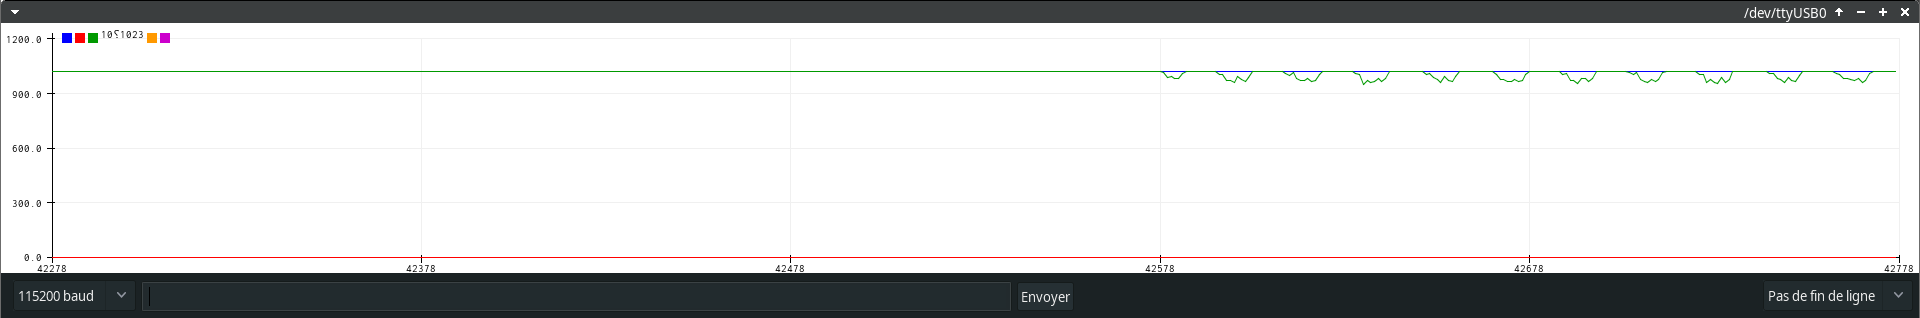
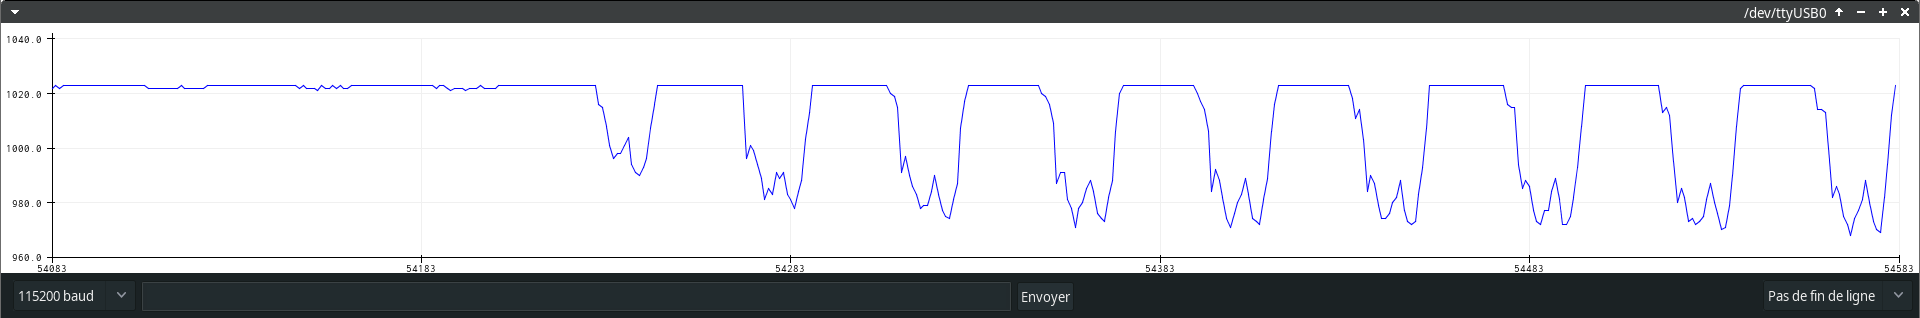
rebuilding site dim. 21 févr. 2021 18:09:02 CET

diff --git a/post/plant_touch_sensor/index.html b/post/plant_touch_sensor/index.html
@@ -59,7 +59,7 @@
   "headline": "Plante tactile",
   "description" : "Un petit projet d\u0026rsquo;une après-midi pour implémenter une interface tactile a l\u0026rsquo;aide d\u0026rsquo;un microcontrôleur.\n",
   "inLanguage" : "fr",
-  "wordCount":  941 ,
+  "wordCount":  1118 ,
   "datePublished" : "2019-12-13T00:00:00",
   "dateModified" : "2019-12-13T00:00:00",
   "image" : "https:\/\/BaptisteHudyma.github.io\/img\/github_profile.jpg",
@@ -463,7 +463,7 @@ if (!doNotTrack) {
   
   
   
-    &nbsp;|&nbsp;<i class="fas fa-book"></i>&nbsp;941&nbsp;mots
+    &nbsp;|&nbsp;<i class="fas fa-book"></i>&nbsp;1118&nbsp;mots
   
   
   
@@ -490,7 +490,7 @@ if (!doNotTrack) {
         <p>Un petit projet d&rsquo;une après-midi pour implémenter une interface tactile a l&rsquo;aide d&rsquo;un microcontrôleur.</p>
 <p>Un peu de contexte : Nous sommes en 2019, je suis en 5e année d&rsquo;école d&rsquo;ingénieur, en cours d&rsquo;IoT (Internet of Things, objet connectés).
 Par groupe de 5, nous devons réaliser un projet sur 4 jours, sur le thème &ldquo;un objet connecté inutile mais désirable&rdquo; (un sujet de société finalement).
-Notre équipe décide de s&rsquo;orienter vers une plante connectée appelée <em>Super Spinach 2000</em>, mais pour moi, il manque quelque chose pour que l&rsquo;ensemble soit plus désirable.</p>
+Notre équipe décide de s&rsquo;orienter vers une plante connectée appelée <em>Super Spinach 3000</em>, mais pour moi, il manque quelque chose pour que l&rsquo;ensemble soit plus désirable.</p>
 <p>Je me rappelle alors du projet <a href="https://www.youtube.com/watch?v=EcRSKEIucjk">&ldquo;Botanicus interacticus&rdquo; de Disney Research Hub</a>, permettant de brancher une interface sur une plante pour visualiser les interactions tactiles avec un utilisateur.
 Une plante connectée c&rsquo;est bien, mais une plante connectée qui peut exprimer sa joie d&rsquo;être caressée ou permet d&rsquo;allumer la lumière/musique, c&rsquo;est bien mieux !</p>
 <p>L&rsquo;équipe, convaincue par mon idée, m&rsquo;a confié la réalisation de cette partie (oups !).</p>
@@ -509,6 +509,7 @@ Une plante connectée c&rsquo;est bien, mais une plante connectée qui peut expr
 <p>J&rsquo;ai simplement mis un fil de la pin A0, et j&rsquo;observe les données pendant quelques temps avant de poser mon doigt dessus.
 Voilà un exemple des données bruts, au moment où je touche le fil :
 <img src="/static/plant_touch/contact_fil.png" alt=""></p>
+<p>Le signal ressemble a une sinusoïdal oscillant autour de 512 (1024/2) a vide, saturée entre 0 et 1023 quand un contact est établi.</p>
 <details><summary>Qu&rsquo;est-ce que c&rsquo;est que cette sinusoïdal ? (cliquer pour étendre)</summary>
 <p>Le convertisseur analogique vers digital (ADC) de l&rsquo;Arduino utilise 10 bits, ce qui nous donne des valeurs de 0 a 1023.</p>
 <p>Ici, observe un bruit sinusoïdal, assez faible avant que j&rsquo;établisse le contact, puis fortement amplifié.
@@ -524,7 +525,8 @@ Cela indique qu&rsquo;il s&rsquo;agit d&rsquo;un bruit extérieur au système, c
 <h2 id="pull-up-2-m-ohms">Pull up 2 M Ohms</h2>
 <p>En ajoutant une résistance de 2 Mega Ohms entre notre pin et l&rsquo;alimentation Vcc (ici, 5 Volts), on &ldquo;force&rdquo; la lecture et la reinitialisation de la pin.</p>
 <p><img src="/static/plant_touch/contact_fil_pullup.png" alt=""></p>
-<p>Cette fois on peut simplement ajouter une condition pour allumer la led si on passe en dessous de la valeur 1000 :</p>
+<p>La valeur de base est cette fois très proche de 1023, et descend vers 980 quand un contact est établit.
+Cette fois on peut simplement ajouter une condition pour allumer la led si on passe en dessous de la valeur 1000 :</p>
 <div class="highlight"><pre class="chroma"><code class="language-Cpp" data-lang="Cpp"><span class="c1">//allumer la led si on passe sous le seuil, sinon eteindre
 </span><span class="c1"></span><span class="n">digitalWrite</span><span class="p">(</span><span class="n">LED_BUILTIN</span><span class="p">,</span> <span class="n">sensorValue</span> <span class="o">&lt;</span> <span class="mi">1000</span><span class="p">);</span>
 </code></pre></div><p><img src="/static/plant_touch/touch_pullup.gif" alt="">
@@ -538,7 +540,7 @@ Cette implémentation repose uniquement sur la résistance du corps humain, une 
 Ce composant présente une certaine capacité à retenir et libérer des charges, et on va utiliser cette propriété pour détecter un contact avec notre plante.</p>
 <p>On cherche ici à charger le condensateur, puis détecter le temps qu&rsquo;il prend à se décharger complètement (via la valeur <code>cycles</code>).
 Cette valeur est comparée a une baseline <code>cycleThreshold</code> qui représente notre capacitance de base de l&rsquo;environnement, étalonnée quand le système est à vide, ou réglée via un potentiomètre.</p>
-<div class="highlight"><pre class="chroma"><code class="language-Cpp" data-lang="Cpp"><span class="k">const</span> <span class="n">in</span> <span class="n">plantSensor</span> <span class="o">=</span> <span class="mi">4</span><span class="p">;</span>
+<div class="highlight"><pre class="chroma"><code class="language-Cpp" data-lang="Cpp"><span class="k">const</span> <span class="kt">int</span> <span class="n">plantSensor</span> <span class="o">=</span> <span class="mi">4</span><span class="p">;</span>
 <span class="kt">uint8_t</span> <span class="n">cycleThreshold</span> <span class="o">=</span> <span class="mi">25</span><span class="p">;</span>
 
 <span class="kt">void</span> <span class="nf">setup</span><span class="p">()</span> <span class="p">{</span>
@@ -560,19 +562,8 @@ Cette valeur est comparée a une baseline <code>cycleThreshold</code> qui repré
             <span class="k">break</span><span class="p">;</span>
     <span class="p">}</span>
     
-    <span class="c1">//empty capacitor 
-</span><span class="c1"></span>    <span class="n">pinMode</span><span class="p">(</span><span class="n">plantSensor</span><span class="p">,</span> <span class="n">OUTPUT</span><span class="p">);</span>
-    <span class="n">digitalWrite</span><span class="p">(</span><span class="n">plantSensor</span><span class="p">,</span> <span class="n">LOW</span><span class="p">);</span>
-
     <span class="c1">//touch detected
-</span><span class="c1"></span>    <span class="k">if</span><span class="p">(</span><span class="n">cycles</span> <span class="o">&gt;</span> <span class="n">cycleThreshold</span><span class="p">)</span> <span class="p">{</span>
-        <span class="n">digitalWrite</span><span class="p">(</span><span class="n">LED_BUILTIN</span><span class="p">,</span> <span class="n">HIGH</span><span class="p">);</span>
-        <span class="n">delay</span><span class="p">(</span><span class="mi">50</span><span class="p">);</span>
-    <span class="p">}</span>
-    <span class="k">else</span> <span class="p">{</span>
-        <span class="n">digitalWrite</span><span class="p">(</span><span class="n">LED_BUILTIN</span><span class="p">,</span> <span class="n">LOW</span><span class="p">);</span>
-        <span class="n">delay</span><span class="p">(</span><span class="mi">10</span><span class="p">);</span>
-    <span class="p">}</span>
+</span><span class="c1"></span>    <span class="n">digitalWrite</span><span class="p">(</span><span class="n">LED_BUILTIN</span><span class="p">,</span> <span class="n">cycles</span> <span class="o">&gt;</span> <span class="n">cycleThreshold</span><span class="p">);</span>
 <span class="p">}</span>
 </code></pre></div><p>Ce système est moins sensible au bruit et la valeur de sortie est bien plus stable.
 De même, la résistance du corps humain influe beaucoup moins sur le résultat.
@@ -583,10 +574,18 @@ J&rsquo;ai fait des tests avec un fils relié au GND sur ma peau, de plus en plu
 <img src="/static/plant_touch/banana_touch.gif" alt="Banana gif"></p>
 <p>Une plante :
 <img src="/static/plant_touch/plant_touch.gif" alt="Banana gif"></p>
-<p>Notre projet <em>Super Spinach 2000</em> et son interface tactile nous a value un petit 18/20, tout le monde voulait caresser notre plante.</p>
+<p>Notre projet <em>Super Spinach 3000</em> et son interface tactile nous a offert un petit 18/20, tout le monde voulait caresser notre plante (voir <a href="https://gitlab.com/TheWindWalker/connected_plant_iot_2019">le code du projet final</a>).
+Je me suis également occupé de l&rsquo;affichage de l&rsquo;état de contentement de la plante via l&rsquo;écran E-paper (la qualité du code général n&rsquo;est pas de mon ressort&hellip;).</p>
 <p>Sur le gif de la plante, on peut voir que la led s&rsquo;allume avant que j&rsquo;établisse le contact.
 Cela est dû a une valeur de <em>cycleThreshold</em> trop basse : la proximité de ma main a la plante est suffisante pour que la capacité change (avec un condensateur crée par ma main | l&rsquo;air comme isolant | la plante).
 Intéressant pour un petit tour de magie.</p>
+<h3 id="notes">Notes</h3>
+<p>Je ne suis pas sur de l&rsquo;effet a long terme de ce type d&rsquo;interface capacitive sur un organisme vivant, mais on peut faire quelques observation/déductions:</p>
+<ul>
+<li>Aucune idée de ce que peut avoir comme effet de charger et décharger en permanence la plante (ne le risquez pas : probablement pas bon)</li>
+<li>Le fil connecté dans la plante va agir comme une cathode, et attaquer le milieu (surement pas bon)</li>
+<li>Le fil est composé de métal (cuivre ?), qui est plutôt du coté &ldquo;mauvais&rdquo; sur le spectre de la santé des plantes. En tous cas, percer un trou dans la plante pour y passer le fil n&rsquo;est certainement pas bon d&rsquo;un point de vue contamination (certainement pas bon)</li>
+</ul>
 
         
           <div class="blog-tags">

diff --git a/index.html b/index.html
@@ -778,7 +778,7 @@ Peut on faire en une heure un algorithme qui résout les Sudoku ?</p>
   
   
   
-    &nbsp;|&nbsp;<i class="fas fa-book"></i>&nbsp;941&nbsp;mots
+    &nbsp;|&nbsp;<i class="fas fa-book"></i>&nbsp;1118&nbsp;mots
   
   
   

diff --git a/post/index.html b/post/index.html
@@ -756,7 +756,7 @@ Peut on faire en une heure un algorithme qui résout les Sudoku ?</p>
   
   
   
-    &nbsp;|&nbsp;<i class="fas fa-book"></i>&nbsp;941&nbsp;mots
+    &nbsp;|&nbsp;<i class="fas fa-book"></i>&nbsp;1118&nbsp;mots
   
   
   

diff --git a/tags/arduino/index.html b/tags/arduino/index.html
@@ -441,7 +441,7 @@ if (!doNotTrack) {
   
   
   
-    &nbsp;|&nbsp;<i class="fas fa-book"></i>&nbsp;941&nbsp;mots
+    &nbsp;|&nbsp;<i class="fas fa-book"></i>&nbsp;1118&nbsp;mots
   
   
   

diff --git a/tags/art/index.html b/tags/art/index.html
@@ -441,7 +441,7 @@ if (!doNotTrack) {
   
   
   
-    &nbsp;|&nbsp;<i class="fas fa-book"></i>&nbsp;941&nbsp;mots
+    &nbsp;|&nbsp;<i class="fas fa-book"></i>&nbsp;1118&nbsp;mots
   
   
   

diff --git a/tags/electronic/index.html b/tags/electronic/index.html
@@ -441,7 +441,7 @@ if (!doNotTrack) {
   
   
   
-    &nbsp;|&nbsp;<i class="fas fa-book"></i>&nbsp;941&nbsp;mots
+    &nbsp;|&nbsp;<i class="fas fa-book"></i>&nbsp;1118&nbsp;mots
   
   
   

diff --git a/tags/iot/index.html b/tags/iot/index.html
@@ -441,7 +441,7 @@ if (!doNotTrack) {
   
   
   
-    &nbsp;|&nbsp;<i class="fas fa-book"></i>&nbsp;941&nbsp;mots
+    &nbsp;|&nbsp;<i class="fas fa-book"></i>&nbsp;1118&nbsp;mots
   
   
   

diff --git a/tags/one-day-build/index.html b/tags/one-day-build/index.html
@@ -441,7 +441,7 @@ if (!doNotTrack) {
   
   
   
-    &nbsp;|&nbsp;<i class="fas fa-book"></i>&nbsp;941&nbsp;mots
+    &nbsp;|&nbsp;<i class="fas fa-book"></i>&nbsp;1118&nbsp;mots
   
   
   
